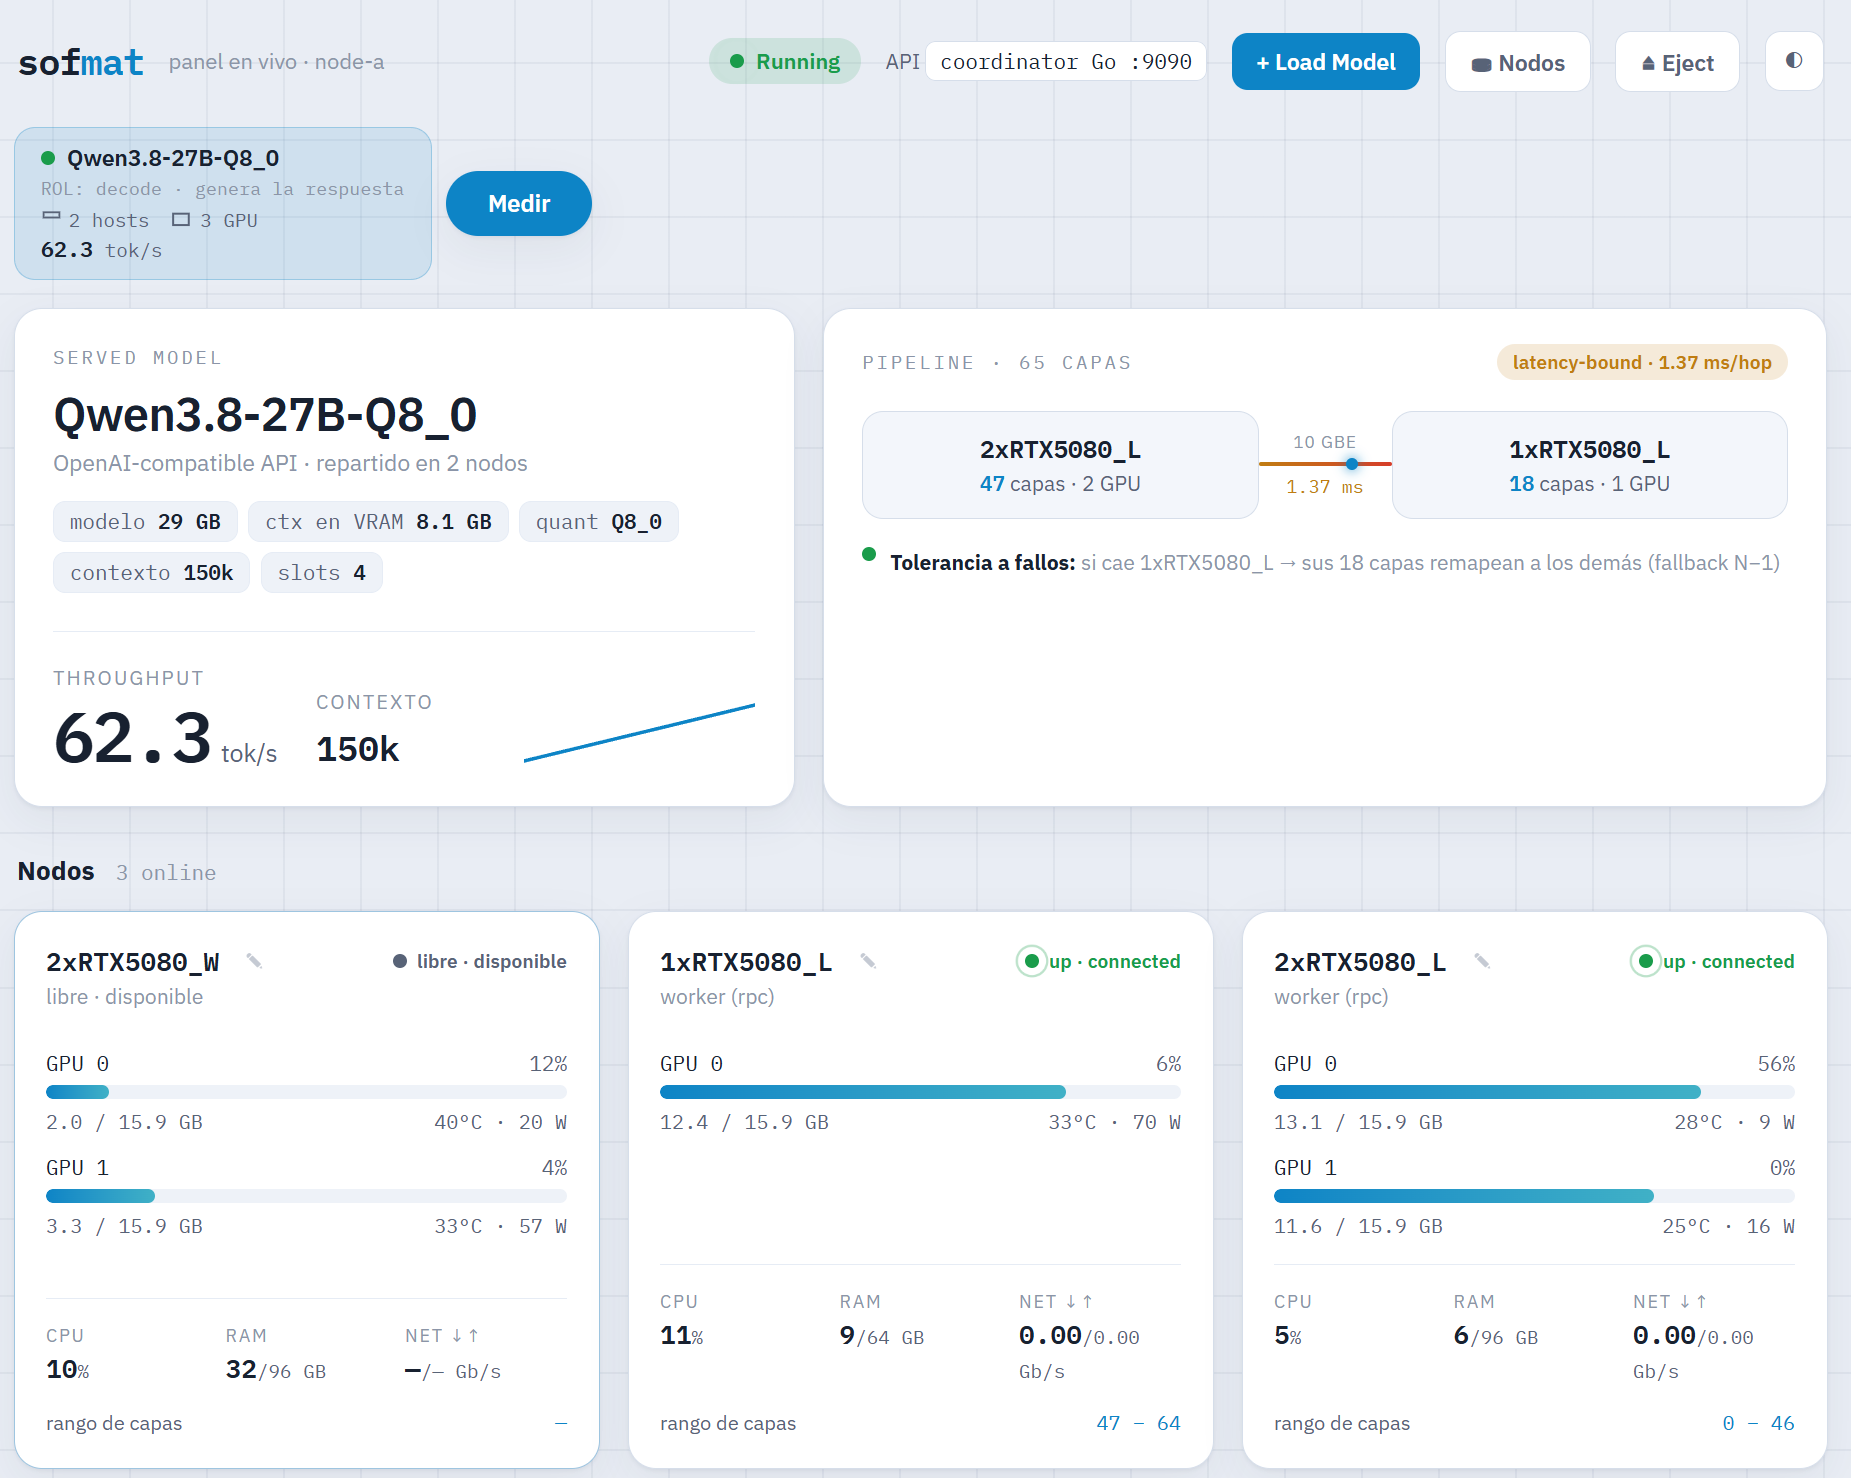
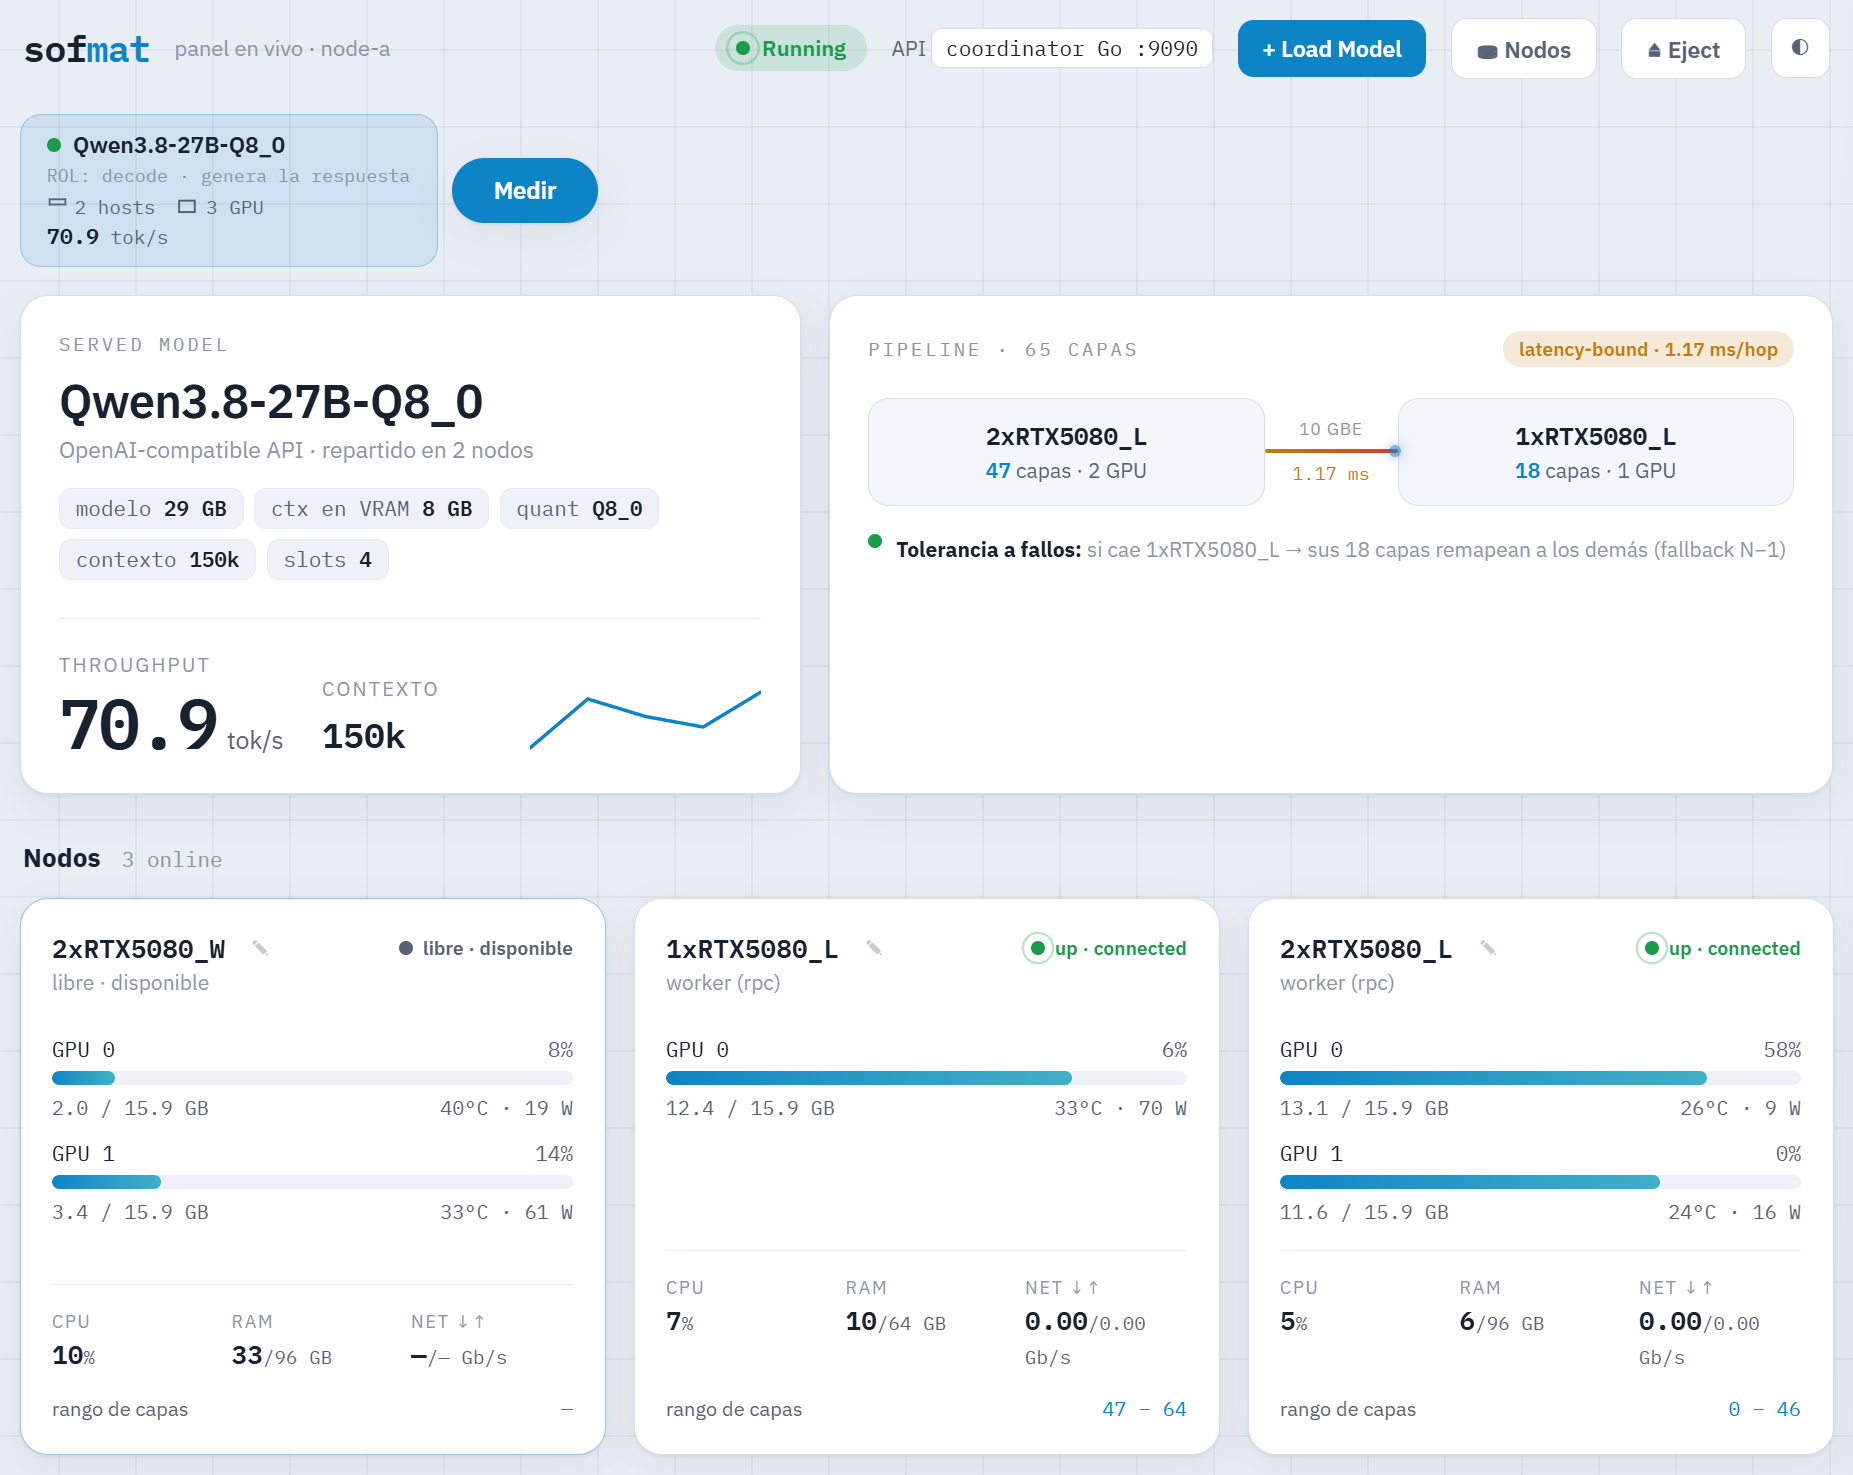
docs: Q8 single-instance panel at ~70 tok/s (better shot)

diff --git a/README.md b/README.md
@@ -17,10 +17,10 @@ A **27B** model at **Q8** precision with a **150k-token context**, served across
 
 The panel also shows sofmat's **disaggregated prefill/decode**: the model runs as two roles on separate GPUs. A **decode** stage generates the answer (~61 tok/s single-stream); a separate **prefill** stage ingests the prompt. On its own each server just generates tokens (decode ~61 tok/s, the prefill server ~35 tok/s). Joined by role, they do different jobs at once: prefill *reads the prompt* at **~1,600 tokens/s** while decode *streams the answer* at **~55 tok/s** — prompt-ingestion and generation are separate metrics, not additive. Splitting the phases is what keeps them from fighting over the same GPUs: interference drops from **~5.8× slowdown** (prefill and decode co-located) to **~1.0×** (disaggregated) — near-total isolation, so one user's huge prompt never stalls another user's token stream. (Live KV hand-off between the two stages is on the roadmap; the isolation is measured today.)
 
-Served straight — as a single decode instance, no disaggregation — the same Q8 sustains **~62 tok/s** at **150k** context across **2 nodes / 3 GPUs**:
+Served straight — as a single decode instance, no disaggregation — the same Q8 sustains **~70 tok/s** at **150k** context across **2 nodes / 3 GPUs**:
 
 <!-- panel screenshot (sanitized: anonymized node labels, no infra IPs) -->
-![sofmat live panel — 27B Q8 as a single instance, 150k context, ~62 tok/s across 2 nodes / 3 GPUs](assets/panel-q8-single.png)
+![sofmat live panel — 27B Q8 as a single instance, 150k context, ~70 tok/s across 2 nodes / 3 GPUs](assets/panel-q8-single.png)
 
 And at **BF16** — full precision, maximum quality — the same **27B** runs with a **100k-token context** as a single instance spread across **three nodes / five GPUs**, still over plain **10 GbE**, at **~32 tokens/s** single-stream decode:
 
